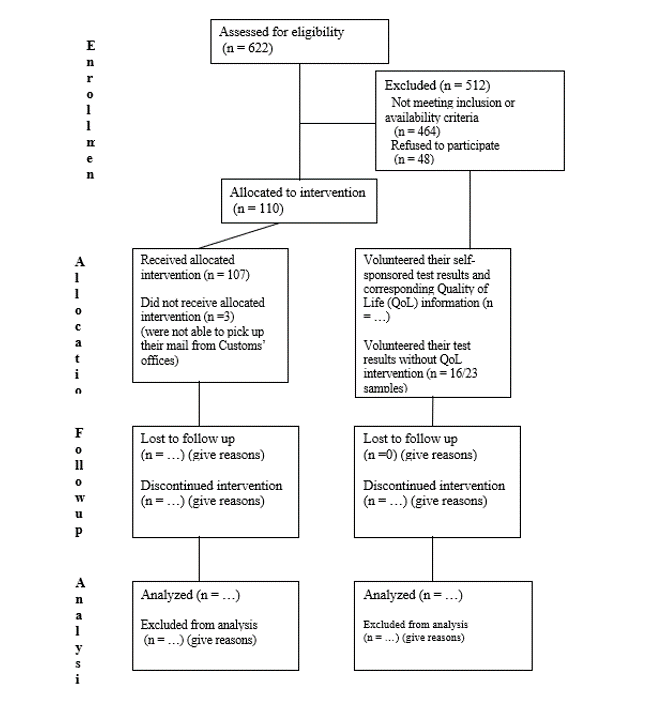
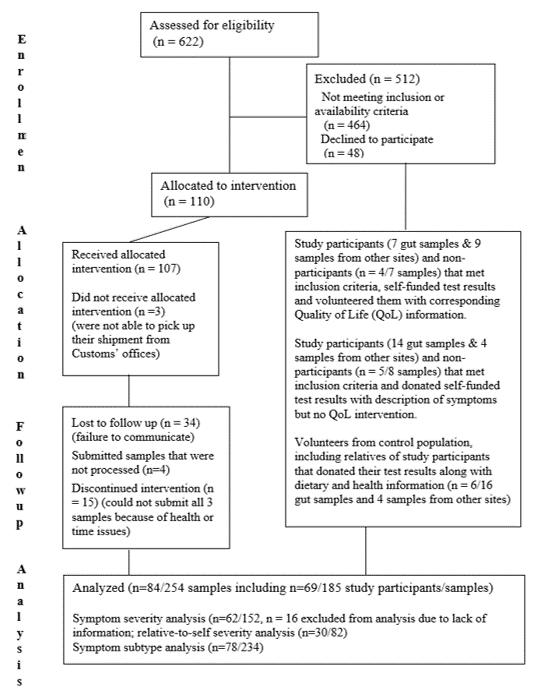
baseline

diff --git a/blog/baseline.html b/blog/baseline.html
@@ -1,0 +1,271 @@
+<!DOCTYPE html>
+
+<html>
+  <head>
+    <title>Aurametrix &hearts; Blog</title>
+    <link rel="stylesheet" type="text/css" href="../css/reset.css">
+    <link rel="stylesheet" type="text/css" href="../css/grid.css">
+    <link rel="stylesheet" type="text/css" href="../css/style_t.css">
+ 	
+    <meta name="viewport" content="width=device-width, initial-scale=1.0">
+    <meta name="description" content="Blog post">
+
+     <meta property="og:description" content="Aurametrix is developing a portable, easy-to-use platform to alleviate metabolic disorders by measuring the body’s early responses to specific foods, activities and therapies" />
+    <meta name="author" content="">
+<meta name="google-site-verification" content="viSFUMm8kGibfn0m9jqaKylLbekJwem1sABKllXTD00">
+
+    <link rel="shortcut icon" href="../favicon.ico" type="image/x-icon">
+
+
+	 </head>
+  <body>
+  
+ 
+    <div id="wrapper" class="grid clearfix">
+      <div id="main" class="grid-1">
+      <!--  <div id="logo"><h1>Blog</h1></div> -->
+     <h1>NCT03582826 Archives</h1>
+	 <div dir="ltr" style="text-align: left;" trbidi="on">
+	 	 <li><a href="sutterella.html">Sutterella</a>: 12/2/2019	
+	 <li><a href="baseline.html">Baseline</a>: 11/30/2019	
+	 <li><a href="https://aurametrix.com/blog/akp">Alloprevotella</a>: 9/4/2019	
+	 <li><a href="https://aurametrix.com/blog/balance">Epulopiscium</a>: 8/19/2019	
+	 <li><a href="https://aurametrix.com/blog/friends">Friends & Stars</a>: 8/14/2019	
+	 <li><a href="https://aurametrix.com/blog/microbiome-tma">PATM and TMAU</a>: 8/5/2019	
+	 <li><a href="https://aurametrix.com/blog/microbiome-food">Feeding microbiomes</a>: 7/21/2019	 
+	 <li><a href="https://aurametrix.com/blog/microbiome-blood-type">Blood type</a>: 6/24/2019
+	 <li><a href="https://aurametrix.com/blog/microbiome-first41">First 41 results</a>: 11/28/2018
+	 <li><a href="https://www.prweb.com/releases/ubiome_awards_grant_to_mebo_research_a_public_charity_to_study_the_dynamic_of_gut_microbiota_in_idiopathic_malodor_production/prweb15949159.htm">Press Release</a>: 11/28
+	 <li><a href="https://aurametrix.com/Studies/mebo-and-patm-microbiome">What we hope to learn</a>: 6/27
+	 <li><a href="https://aurametrix.com/Studies/mebo-microbiome">MEBO Microbiome study</a>: 6/15
+	 <li><a href="https://aurametrix.weebly.com/blog/microbes-of-social-odor">Microbes of anti-social odor</a>: 3/14
+	 <li><a href="https://www.linkedin.com/pulse/crowdsourcing-precision-medicine-irene-gabashvili/">Crowdsourcing precision medicine</a>
+  
+     <br>
+	 <h1><a href="../blog.html">Other Archives</a></h1>
+
+  </div> </div>
+	  
+      <div class="grid grid-3">
+  
+  <!--
+            <div id="statistics" class="grid-1 alpha header">
+          <h1><a href="https://aurametrix.com/Studies/mebo-microbiome">Microbiome Study</a></h1>
+          <p>
+                 </p>
+  
+        </div> 
+		-->
+		
+		  
+		          <div id="recently-updated" class="grid-2 alpha header">
+   <h1>Concluding the MEBO-uBIOME study</h1>
+   <a href="https://clinicaltrials.gov/ct2/show/NCT03582826"><h1>NCT03582826</h1></a> 
+   <h6>&nbsp;&nbsp;&nbsp Saturday, November 30, 2019</h6>
+        </div>
+
+<div dir="ltr" style="text-align: left;" trbidi="on">
+<span style="background-color: white; color: #2a2a2a; font-family: &quot;open sans&quot; , sans-serif; font-size: 16px; text-align: justify;"><span style="color: #2a2a2a;">We are very close to&nbsp;concluding our clinical trial&nbsp;<a data-cke-saved-href="https://clinicaltrials.gov/ct2/show/NCT03582826" href="https://clinicaltrials.gov/ct2/show/NCT03582826" style="color: #2a92e5; text-decoration-line: none;">NCT03582826 </a>according to the pre-specified protocol.&nbsp;</span></span><br />
+<br />
+<div style="text-align: justify;">
+<span style="color: #2a2a2a; font-family: &quot;open sans&quot; , sans-serif;"></span><br />
+<table cellpadding="0" cellspacing="0" class="tr-caption-container" style="float: right; margin-left: 1em; text-align: right;"><tbody>
+<tr><td style="text-align: center;"><a href="https://aurametrix.com/images/Studies/NCT03582826-consort.png" imageanchor="1" style="clear: right; margin-bottom: 1em; margin-left: auto; margin-right: auto;"><img border="0" data-original-height="710" data-original-width="646" height="400" src="https://aurametrix.com/images/Studies/NCT03582826-consort.png" width="363" /></a></td></tr>
+<tr><td class="tr-caption" style="text-align: center;">Consort Diagram</td></tr>
+</tbody></table>
+<br />
+<span style="color: #2a2a2a; font-family: &quot;open sans&quot; , sans-serif;"></span></div>
+<br />
+<span style="color: #2a2a2a; font-family: &quot;open sans&quot; , sans-serif; font-size: 16px; text-align: justify;">Recruitment for our microbiome study commenced in June 2018 and completed in December 2018. The last batch of&nbsp;</span><span style="background-color: white; color: #2a2a2a; font-family: &quot;open sans&quot; , sans-serif; font-size: 16px; text-align: justify;">raw FASTQ sequences and raw taxonomy-level abundance summaries&nbsp;</span><span style="color: #2a2a2a; font-family: &quot;open sans&quot; , sans-serif; font-size: 16px; text-align: justify;">was received in October 2019. We had to spend more time on collecting and processing annotation data (medical histories, dietary intakes, medications, etc), ensuring quality, completeness, consistency and validity, and defining best approaches of dealing with 
+"missing values".</span><br />
+<br style="background-color: white; color: #2a2a2a; font-family: &quot;Open Sans&quot;, sans-serif; font-size: 16px; text-align: justify;" />
+<span style="background-color: white; color: #2a2a2a; font-family: &quot;open sans&quot; , sans-serif; font-size: 16px; text-align: justify;"><span style="color: #2a2a2a;">We have now completed final data collection for the primary and secondary outcome measures, de-identified data and combined it with other donated results, as seen in the consort flow diagram.&nbsp; A&nbsp;table of baseline demographic and clinical characteristics for each study group is shown below.&nbsp;</span></span><br />
+<br style="background-color: white; color: #2a2a2a; font-family: &quot;Open Sans&quot;, sans-serif; font-size: 16px; text-align: justify;" />
+Table 1. Baseline demographic and clinical characteristics
+
+<br />
+<table border="0" cellpadding="0" cellspacing="0" style="border-collapse: collapse; width: 367px;">
+ <colgroup><col style="mso-width-alt: 9076; mso-width-source: userset; width: 195pt;" width="260"></col>
+ <col style="mso-width-alt: 3746; mso-width-source: userset; width: 81pt;" width="107"></col>
+ </colgroup><tbody>
+<tr height="19" style="height: 14.5pt;">
+  <td class="xl65" colspan="2" height="19" style="height: 14.5pt; mso-ignore: colspan; width: 276pt;" width="367"></td>
+ </tr>
+<tr height="19" style="height: 14.5pt;">
+  <td height="19" style="background: rgb(91, 155, 213); border-bottom: 1.5pt solid white; border-left: none; border-right: 0.5pt solid white; border-top: none; color: white; font-family: Calibri, sans-serif; font-size: 11pt; font-weight: 700; height: 14.5pt;">Characteristic</td>
+  <td style="background: rgb(91, 155, 213); border-bottom: 1.5pt solid white; border-left: 0.5pt solid white; border-right: none; border-top: none; color: white; font-family: Calibri, sans-serif; font-size: 11pt; font-weight: 700;">Value / N=84</td>
+ </tr>
+<tr height="19" style="height: 14.5pt;">
+  <td height="19" style="background: rgb(189, 215, 238); border-bottom: 0.5pt solid white; border-left: none; border-right: 0.5pt solid white; border-top: 0.5pt solid white; font-family: Calibri, sans-serif; font-size: 11pt; height: 14.5pt;">Age (years; mean (SD))</td>
+  <td style="background: rgb(189, 215, 238); border-bottom: 0.5pt solid white; border-left: 0.5pt solid white; border-right: none; border-top: 0.5pt solid white; font-family: Calibri, sans-serif; font-size: 11pt;">40
+  (12)</td>
+ </tr>
+<tr height="19" style="height: 14.5pt;">
+  <td height="19" style="background: rgb(221, 235, 247); border-bottom: 0.5pt solid white; border-left: none; border-right: 0.5pt solid white; border-top: 0.5pt solid white; font-family: Calibri, sans-serif; font-size: 11pt; height: 14.5pt;">Sex (female; n (%))</td>
+  <td style="background: rgb(221, 235, 247); border-bottom: 0.5pt solid white; border-left: 0.5pt solid white; border-right: none; border-top: 0.5pt solid white; font-family: Calibri, sans-serif; font-size: 11pt;">50
+  (60%)</td>
+ </tr>
+<tr height="19" style="height: 14.5pt;">
+  <td height="19" style="background: rgb(189, 215, 238); border-bottom: 0.5pt solid white; border-left: none; border-right: 0.5pt solid white; border-top: 0.5pt solid white; font-family: Calibri, sans-serif; font-size: 11pt; height: 14.5pt;">Age (female, years; mean (SD))</td>
+  <td style="background: rgb(189, 215, 238); border-bottom: 0.5pt solid white; border-left: 0.5pt solid white; border-right: none; border-top: 0.5pt solid white; font-family: Calibri, sans-serif; font-size: 11pt;">42
+  (11)</td>
+ </tr>
+<tr height="19" style="height: 14.5pt;">
+  <td height="19" style="background: rgb(221, 235, 247); border-bottom: 0.5pt solid white; border-left: none; border-right: 0.5pt solid white; border-top: 0.5pt solid white; font-family: Calibri, sans-serif; font-size: 11pt; height: 14.5pt;">Age (male, years; mean (SD))</td>
+  <td style="background: rgb(221, 235, 247); border-bottom: 0.5pt solid white; border-left: 0.5pt solid white; border-right: none; border-top: 0.5pt solid white; font-family: Calibri, sans-serif; font-size: 11pt;">37
+  (12)</td>
+ </tr>
+<tr height="19" style="height: 14.5pt;">
+  <td height="19" style="background: rgb(189, 215, 238); border-bottom: 0.5pt solid white; border-left: none; border-right: 0.5pt solid white; border-top: 0.5pt solid white; font-family: Calibri, sans-serif; font-size: 11pt; height: 14.5pt;">TMAU positive (n (%))</td>
+  <td style="background: rgb(189, 215, 238); border-bottom: 0.5pt solid white; border-left: 0.5pt solid white; border-right: none; border-top: 0.5pt solid white; font-family: Calibri, sans-serif; font-size: 11pt;">20
+  (24%)</td>
+ </tr>
+<tr height="19" style="height: 14.5pt;">
+  <td height="19" style="background: rgb(221, 235, 247); border-bottom: 0.5pt solid white; border-left: none; border-right: 0.5pt solid white; border-top: 0.5pt solid white; font-family: Calibri, sans-serif; font-size: 11pt; height: 14.5pt;">&nbsp;&nbsp;&nbsp;&nbsp;&nbsp;&nbsp;&nbsp;&nbsp;&nbsp;&nbsp;&nbsp;
+  TMAU1</td>
+  <td style="background: rgb(221, 235, 247); border-bottom: 0.5pt solid white; border-left: 0.5pt solid white; border-right: none; border-top: 0.5pt solid white; font-family: Calibri, sans-serif; font-size: 11pt;">8
+  (10%)</td>
+ </tr>
+<tr height="19" style="height: 14.5pt;">
+  <td height="19" style="background: rgb(189, 215, 238); border-bottom: 0.5pt solid white; border-left: none; border-right: 0.5pt solid white; border-top: 0.5pt solid white; font-family: Calibri, sans-serif; font-size: 11pt; height: 14.5pt;">&nbsp;&nbsp;&nbsp;&nbsp;&nbsp;&nbsp;&nbsp;&nbsp;&nbsp;&nbsp;&nbsp;
+  TMAU2</td>
+  <td style="background: rgb(189, 215, 238); border-bottom: 0.5pt solid white; border-left: 0.5pt solid white; border-right: none; border-top: 0.5pt solid white; font-family: Calibri, sans-serif; font-size: 11pt;">9
+  (11%)</td>
+ </tr>
+<tr height="19" style="height: 14.5pt;">
+  <td height="19" style="background: rgb(221, 235, 247); border-bottom: 0.5pt solid white; border-left: none; border-right: 0.5pt solid white; border-top: 0.5pt solid white; font-family: Calibri, sans-serif; font-size: 11pt; height: 14.5pt;">&nbsp;&nbsp;&nbsp;&nbsp;&nbsp;&nbsp;&nbsp;&nbsp;&nbsp;&nbsp;
+  Intermittent TMAU</td>
+  <td style="background: rgb(221, 235, 247); border-bottom: 0.5pt solid white; border-left: 0.5pt solid white; border-right: none; border-top: 0.5pt solid white; font-family: Calibri, sans-serif; font-size: 11pt;">2
+  (2%)</td>
+ </tr>
+<tr height="19" style="height: 14.5pt;">
+  <td height="19" style="background: rgb(189, 215, 238); border-bottom: 0.5pt solid white; border-left: none; border-right: 0.5pt solid white; border-top: 0.5pt solid white; font-family: Calibri, sans-serif; font-size: 11pt; height: 14.5pt;">&nbsp;&nbsp;&nbsp;&nbsp;&nbsp;&nbsp;&nbsp;&nbsp;&nbsp;&nbsp;
+  genetic but not metabolic positive</td>
+  <td style="background: rgb(189, 215, 238); border-bottom: 0.5pt solid white; border-left: 0.5pt solid white; border-right: none; border-top: 0.5pt solid white; font-family: Calibri, sans-serif; font-size: 11pt;">1
+  (1%)</td>
+ </tr>
+<tr height="19" style="height: 14.5pt;">
+  <td height="19" style="background: rgb(221, 235, 247); border-bottom: 0.5pt solid white; border-left: none; border-right: 0.5pt solid white; border-top: 0.5pt solid white; font-family: Calibri, sans-serif; font-size: 11pt; height: 14.5pt;">TMAU negative (n (%))</td>
+  <td style="background: rgb(221, 235, 247); border-bottom: 0.5pt solid white; border-left: 0.5pt solid white; border-right: none; border-top: 0.5pt solid white; font-family: Calibri, sans-serif; font-size: 11pt;">16
+  (19%)</td>
+ </tr>
+<tr height="19" style="height: 14.5pt;">
+  <td height="19" style="background: rgb(189, 215, 238); border-bottom: 0.5pt solid white; border-left: none; border-right: 0.5pt solid white; border-top: 0.5pt solid white; font-family: Calibri, sans-serif; font-size: 11pt; height: 14.5pt;">PATM (n (%))</td>
+  <td style="background: rgb(189, 215, 238); border-bottom: 0.5pt solid white; border-left: 0.5pt solid white; border-right: none; border-top: 0.5pt solid white; font-family: Calibri, sans-serif; font-size: 11pt;">37
+  (44%)</td>
+ </tr>
+<tr height="19" style="height: 14.5pt;">
+  <td height="19" style="background: rgb(221, 235, 247); border-bottom: 0.5pt solid white; border-left: none; border-right: 0.5pt solid white; border-top: 0.5pt solid white; font-family: Calibri, sans-serif; font-size: 11pt; height: 14.5pt;">PATM without odors (n (%))</td>
+  <td style="background: rgb(221, 235, 247); border-bottom: 0.5pt solid white; border-left: 0.5pt solid white; border-right: none; border-top: 0.5pt solid white; font-family: Calibri, sans-serif; font-size: 11pt;">2
+  (2%)</td>
+ </tr>
+<tr height="19" style="height: 14.5pt;">
+  <td height="19" style="background: rgb(189, 215, 238); border-bottom: 0.5pt solid white; border-left: none; border-right: 0.5pt solid white; border-top: 0.5pt solid white; font-family: Calibri, sans-serif; font-size: 11pt; height: 14.5pt;">Feet odor w/other odors (n (%))</td>
+  <td style="background: rgb(189, 215, 238); border-bottom: 0.5pt solid white; border-left: 0.5pt solid white; border-right: none; border-top: 0.5pt solid white; font-family: Calibri, sans-serif; font-size: 11pt;">14
+  (17%)</td>
+ </tr>
+<tr height="19" style="height: 14.5pt;">
+  <td height="19" style="background: rgb(221, 235, 247); border-bottom: 0.5pt solid white; border-left: none; border-right: 0.5pt solid white; border-top: 0.5pt solid white; font-family: Calibri, sans-serif; font-size: 11pt; height: 14.5pt;">Genital odor w/other odors (n (%))</td>
+  <td style="background: rgb(221, 235, 247); border-bottom: 0.5pt solid white; border-left: 0.5pt solid white; border-right: none; border-top: 0.5pt solid white; font-family: Calibri, sans-serif; font-size: 11pt;">9
+  (11%)</td>
+ </tr>
+<tr height="19" style="height: 14.5pt;">
+  <td height="19" style="background: rgb(189, 215, 238); border-bottom: 0.5pt solid white; border-left: none; border-right: 0.5pt solid white; border-top: 0.5pt solid white; font-family: Calibri, sans-serif; font-size: 11pt; height: 14.5pt;">Bad breath w/other odors (n (%))</td>
+  <td style="background: rgb(189, 215, 238); border-bottom: 0.5pt solid white; border-left: 0.5pt solid white; border-right: none; border-top: 0.5pt solid white; font-family: Calibri, sans-serif; font-size: 11pt;">47
+  (56%)</td>
+ </tr>
+<tr height="19" style="height: 14.5pt;">
+  <td height="19" style="background: rgb(221, 235, 247); border-bottom: 0.5pt solid white; border-left: none; border-right: 0.5pt solid white; border-top: 0.5pt solid white; font-family: Calibri, sans-serif; font-size: 11pt; height: 14.5pt;">Bad breath without body odor (n (%))</td>
+  <td style="background: rgb(221, 235, 247); border-bottom: 0.5pt solid white; border-left: 0.5pt solid white; border-right: none; border-top: 0.5pt solid white; font-family: Calibri, sans-serif; font-size: 11pt;">2
+  (2%)</td>
+ </tr>
+<tr height="19" style="height: 14.5pt;">
+  <td height="19" style="background: rgb(189, 215, 238); border-bottom: 0.5pt solid white; border-left: none; border-right: 0.5pt solid white; border-top: 0.5pt solid white; font-family: Calibri, sans-serif; font-size: 11pt; height: 14.5pt;">Underarm odor w/other odors (n (%))</td>
+  <td style="background: rgb(189, 215, 238); border-bottom: 0.5pt solid white; border-left: 0.5pt solid white; border-right: none; border-top: 0.5pt solid white; font-family: Calibri, sans-serif; font-size: 11pt;">13
+  (16%)</td>
+ </tr>
+<tr height="19" style="height: 14.5pt;">
+  <td height="19" style="background: rgb(221, 235, 247); border-bottom: 0.5pt solid white; border-left: none; border-right: 0.5pt solid white; border-top: 0.5pt solid white; font-family: Calibri, sans-serif; font-size: 11pt; height: 14.5pt;">Scalp odor w/other odors (n (%))</td>
+  <td style="background: rgb(221, 235, 247); border-bottom: 0.5pt solid white; border-left: 0.5pt solid white; border-right: none; border-top: 0.5pt solid white; font-family: Calibri, sans-serif; font-size: 11pt;">6
+  (7%)</td>
+ </tr>
+<tr height="19" style="height: 14.5pt;">
+  <td height="19" style="background: rgb(189, 215, 238); border-bottom: none; border-left: none; border-right: 0.5pt solid white; border-top: 0.5pt solid white; font-family: Calibri, sans-serif; font-size: 11pt; height: 14.5pt;">Baseline MEBO score (min-max, med; IQR)</td>
+  <td style="background: rgb(189, 215, 238); border-bottom: none; border-left: 0.5pt solid white; border-right: none; border-top: 0.5pt solid white; font-family: Calibri, sans-serif; font-size: 11pt;">3-25,11; 7</td>
+ </tr>
+</tbody></table>
+<br />
+<br />
+<span style="background-color: white; color: #2a2a2a; font-family: &quot;open sans&quot; , sans-serif; font-size: 16px; text-align: justify;">We see patterns in data potentially associated with sub-types and severity of symptoms, but&nbsp;to evaluate the validity of these results, factors that might distort the true association and/or influence its interpretation need to be carefully considered. We need to evaluate&nbsp;the role of bias and consider&nbsp;the study's statistical precision. We performed these analyzes&nbsp;for raw taxonomies and will report it in the next posts. Next steps will be to analyze actual DNA&nbsp;sequences&nbsp;<span style="color: #222222;">to predict metabolic function.&nbsp;</span></span></div>
+
+<br />
+XXXXXXXXXXXXXXXXXXXXXXXXXXXXXXXXXXXXXX<br />
+
+		  
+
+
+
+
+
+           <p>&nbsp;</p>
+
+		   		          <!-- <div id="post" class="grid-4 omega header">  -->
+
+<br />
+<br />
+<br />
+<br />
+
+
+<div id="disqus_thread"></div>
+<script>
+    /**
+     *  RECOMMENDED CONFIGURATION VARIABLES: EDIT AND UNCOMMENT 
+     *  THE SECTION BELOW TO INSERT DYNAMIC VALUES FROM YOUR 
+     *  PLATFORM OR CMS.
+     *  
+     *  LEARN WHY DEFINING THESE VARIABLES IS IMPORTANT: 
+     *  https://disqus.com/admin/universalcode/#configuration-variables
+     */
+    /*
+    var disqus_config = function () {
+        // Replace PAGE_URL with your page's canonical URL variable
+        this.page.url = https://aurametrix.com;  
+        
+        // Replace PAGE_IDENTIFIER with your page's unique identifier variable
+        this.page.identifier = blog/baseline; 
+    };
+    */
+    
+    (function() {  // REQUIRED CONFIGURATION VARIABLE: EDIT THE SHORTNAME BELOW
+        var d = document, s = d.createElement('script');
+        
+        // IMPORTANT: Replace EXAMPLE with your forum shortname!
+        s.src = 'https://aurametrix.disqus.com/embed.js';
+        
+        s.setAttribute('data-timestamp', +new Date());
+        (d.head || d.body).appendChild(s);
+    })();
+</script>
+<noscript>
+    Please enable JavaScript to view the 
+    <a href="https://disqus.com/?ref_noscript" rel="nofollow">
+        comments powered by Disqus.
+    </a>
+</noscript>
+
+
+
+
+
+		  </p>
+
+        </div>
+
+
+      </div>
+
+    </div>
+    
+  </body>
+</html>

diff --git a/blog/sutterela.html b/blog/sutterela.html
@@ -26,7 +26,8 @@
       <!--  <div id="logo"><h1>Blog</h1></div> -->
      <h1>NCT03582826 Archives</h1>
 	 <div dir="ltr" style="text-align: left;" trbidi="on">
-	 	 <li><a href="https://aurametrix.com/blog/sutterella">Sutterella</a>: 11/29/2019	
+	 	 <li><a href="sutterella.html">Sutterella</a>: 12/3/2019	
+	 <li><a href="baseline.html">Baseline</a>: 11/30/2019	
 	 <li><a href="https://aurametrix.com/blog/akp">Alloprevotella</a>: 9/4/2019	
 	 <li><a href="https://aurametrix.com/blog/balance">Epulopiscium</a>: 8/19/2019	
 	 <li><a href="https://aurametrix.com/blog/friends">Friends & Stars</a>: 8/14/2019	
@@ -60,31 +61,34 @@
 		          <div id="recently-updated" class="grid-2 alpha header">
    <h1>Sutterella</h1>    
    <a href="https://clinicaltrials.gov/ct2/show/NCT03582826"><h1>NCT03582826</h1></a> 
-   <h6>&nbsp;&nbsp;&nbsp Friday, November 29, 2019</h6>
+   <h6>&nbsp;&nbsp;&nbsp Tuesday, December 3, 2019</h6>
         </div>
 
 <div dir="ltr" style="text-align: left;" trbidi="on">
-230 kits submitted, 191 of which were valid gut samples with results.<br />
-<span style="border: 0px; color: #666666; font: inherit; margin: 0px; padding: 0px; vertical-align: baseline;">Out of 110 participants enrolled, 70 submitted at least one gut sample: .&nbsp;&nbsp;</span><span style="border: 0px; color: #666666; font: inherit; margin: 0px; padding: 0px; vertical-align: baseline;">5 gut samples and 9 samples from other body sites were volunteered by those not participating in the study,&nbsp;</span><span style="color: #666666;">along with their QoL information. In addition, over 20 self-paid test results were donated before and after enrollment in the study.</span><br />
-<span style="color: #666666;"><br /></span>
-<div class="separator" style="clear: both; text-align: center;">
-<a href="https://aurametrix.com/images/Studies/NCT03582826-consort.png" imageanchor="1" style="clear: right; float: right; margin-bottom: 1em; margin-left: 1em;"><img border="0" data-original-height="710" data-original-width="646" height="320" src="https://aurametrix.com/images/Studies/NCT03582826-consort.png" width="291" /></a></div>
-<span style="color: #666666;"><br /></span>
+<div dir="ltr" style="text-align: left;" trbidi="on">
+<em style="background-color: white; box-sizing: border-box; color: #5f5959; font-family: &quot;Open Sans&quot;, sans-serif; font-size: 14px;">Sutterella</em><span style="background-color: white; color: #5f5959; font-family: &quot;open sans&quot; , sans-serif; font-size: 14px;">&nbsp;is a genus of bacteria that is normally found in the gastrointestinal tract of dogs. They are mildly pro-inflammatory, though the results of several studies have indicated that they are unlikely to play a significant role in the development of GI conditions like Inflammatory Bowel Disease (IBD). Instead, members of this genus may help keep immune system responses at an appropriate level. At the same time, higher levels of&nbsp;</span><em style="background-color: white; box-sizing: border-box; color: #5f5959; font-family: &quot;Open Sans&quot;, sans-serif; font-size: 14px;">Sutterella</em><span style="background-color: white; color: #5f5959; font-family: &quot;open sans&quot; , sans-serif; font-size: 14px;">&nbsp;are associated with a host of health issues including diarrhea and food sensitivities, so moderation is key with this genus.</span><br />
+<span style="background-color: white; color: #5f5959; font-family: &quot;open sans&quot; , sans-serif; font-size: 14px;"><br /></span>
+<span style="background-color: white; color: #5f5959; font-family: open sans, sans-serif; font-size: 14px;">Sutterella stercoricanis species</span><br />
+<span style="background-color: white; color: #5f5959; font-family: open sans, sans-serif; font-size: 14px;"><br /></span>
+<span style="background-color: white; color: #5f5959; font-family: open sans, sans-serif; font-size: 14px;">Sutterellaceae family</span><br />
+<span style="background-color: white; color: #5f5959; font-family: open sans, sans-serif; font-size: 14px;"><br /></span>
+<span style="background-color: white; color: #5f5959; font-family: open sans, sans-serif; font-size: 14px;"><i style="box-sizing: border-box; color: #3e3d40; font-family: Georgia, &quot;Times New Roman&quot;, Times, serif; font-size: 18px; outline: 0px !important;">Desulfovibrionaceae</i><span style="color: #3e3d40; font-family: Georgia, &quot;Times New Roman&quot;, Times, serif; font-size: 18px;">&nbsp;and&nbsp;</span><i style="box-sizing: border-box; color: #3e3d40; font-family: Georgia, &quot;Times New Roman&quot;, Times, serif; font-size: 18px; outline: 0px !important;">Sutterellaceae</i><span style="color: #3e3d40; font-family: Georgia, &quot;Times New Roman&quot;, Times, serif; font-size: 18px;">&nbsp;were progressively and significantly more abundant in BT, BC and EU children, and almost absent in the BR population (urban Italy, town, capital city vs small village)</span></span><br />
+<span style="background-color: white; color: #5f5959; font-family: open sans, sans-serif; font-size: 14px;"><span style="color: #3e3d40; font-family: Georgia, &quot;Times New Roman&quot;, Times, serif; font-size: 18px;"><br /></span></span>
+<span style="background-color: white; color: #5f5959; font-family: open sans, sans-serif; font-size: 14px;"><span style="color: #3e3d40; font-family: Georgia, &quot;Times New Roman&quot;, Times, serif; font-size: 18px;">In this study, we enrolled 11 healthy children living in the rural village of Boulpon (Boulkiemde province, Burkina Faso, BR), 8 healthy children living in the small town of Nanoro (Boulkiemde province, Burkina Faso, BT), 5 children living in the capital city of Burkina Faso (BC), and 13 healthy children living in the urban area of Florence, Italy (EU). All children aged 2–8 years, had not taken antibiotics or probiotics in the 6 months prior to the sampling dates and had not been hospitalized in the previous 6 months.&nbsp;</span></span><br />
+<span style="background-color: white; color: #5f5959; font-family: &quot;open sans&quot; , sans-serif; font-size: 14px;"><i style="color: black; font-family: &quot;Times New Roman&quot;, serif; font-size: 15.9991px;"><br />Sutterella wadsworthensis</i><span style="color: black; font-family: &quot;Times New Roman&quot;, serif; font-size: 15.9991px;">&nbsp;is often resistant to metronidazole and sometimes to penicillins (including piperacillin</span></span><br />
+<span style="background-color: white; color: #5f5959; font-family: &quot;open sans&quot; , sans-serif; font-size: 14px;"><span style="color: black; font-family: &quot;Times New Roman&quot;, serif; font-size: 15.9991px;"><br /></span></span>
+<span style="background-color: white; color: #5f5959; font-family: &quot;open sans&quot; , sans-serif; font-size: 14px;"><span style="color: black; font-family: &quot;Times New Roman&quot;, serif; font-size: 15.9991px;">Egiptian children:&nbsp;</span></span><span style="font-family: &quot;Times New Roman&quot;, serif; font-size: 15.9991px;">Sutterella assosiated with autism&nbsp;</span><br />
 <br />
-In addition to double QoL entries, we had double kit results - same kit number, two results<br />
-<br />
-<br />
-<br />
-<br />
-<br />
-<br />
-<br />
-<br />
-<br />
-<em style="background-color: white; box-sizing: border-box; color: #5f5959; font-family: &quot;Open Sans&quot;, sans-serif; font-size: 14px;">Sutterella</em><span style="background-color: white; color: #5f5959; font-family: &quot;Open Sans&quot;, sans-serif; font-size: 14px;">&nbsp;is a genus of bacteria that is normally found in the gastrointestinal tract of dogs. They are mildly pro-inflammatory, though the results of several studies have indicated that they are unlikely to play a significant role in the development of GI conditions like Inflammatory Bowel Disease (IBD). Instead, members of this genus may help keep immune system responses at an appropriate level. At the same time, higher levels of&nbsp;</span><em style="background-color: white; box-sizing: border-box; color: #5f5959; font-family: &quot;Open Sans&quot;, sans-serif; font-size: 14px;">Sutterella</em><span style="background-color: white; color: #5f5959; font-family: &quot;Open Sans&quot;, sans-serif; font-size: 14px;">&nbsp;are associated with a host of health issues including diarrhea and food sensitivities, so moderation is key with this genus.</span><br />
-<br />
-<br />
-<br />
+<span style="font-family: Times New Roman, serif;"><span style="font-size: 15.9991px;">was detected in 24 cases out of 30 ASD patients (80%), and in 11(36.7%) out of the control cases. There was no significant correlation between the presence of</span></span><br />
+<span style="font-family: Times New Roman, serif;"><span style="font-size: 15.9991px;">Sutterella&nbsp;</span></span><span style="font-family: &quot;Times New Roman&quot;, serif; font-size: 15.9991px;">and the severity of ASD or GSI.</span><br />
+<span style="font-family: Times New Roman, serif;"><span style="font-size: 15.9991px;"><br /></span></span>
+<span style="font-family: Times New Roman, serif;"><span style="font-size: 15.9991px;"><br /></span></span>
+<span style="font-family: Times New Roman, serif;"><span style="font-size: 15.9991px;">REFERENCES</span></span><br />
+<span style="font-family: Times New Roman, serif;"><span style="font-size: 15.9991px;"><br /></span></span>
+<span style="background-color: white; color: #222222; font-family: Arial, sans-serif; font-size: 13px;">Omar NY, Ahmed SM, Azouz H, Abdelhamid SM, Abdelaziz NM. Detection of Sutterella in the Stool of Egyptian Children with Autism Spectrum Disorders. Microbiology Research Journal International. 2017 Nov 28:1-8.</span><br />
+<span style="background-color: white; color: #222222; font-family: Arial, sans-serif; font-size: 13px;"><br /></span>
+<span style="background-color: white; color: #222222; font-family: Arial, sans-serif; font-size: 13px;">Devaux CA, Raoult D. The microbiological memory, an epigenetic regulator governing the balance between good health and metabolic disorders. Frontiers in microbiology. 2018 Jun 26;9:1379.</span></div>
+
 <br />
 <br />
 XXXXXXXXXXXXXXXXXXXXXXXXXXXXXXXXXXXXXX<br />
@@ -223,6 +227,42 @@ disease. 2017 Jan 1;28(1):1357417.</div>
       </div>
 
     </div>
+   <div id="disqus_thread"></div>
+<script>
+    /**
+     *  RECOMMENDED CONFIGURATION VARIABLES: EDIT AND UNCOMMENT 
+     *  THE SECTION BELOW TO INSERT DYNAMIC VALUES FROM YOUR 
+     *  PLATFORM OR CMS.
+     *  
+     *  LEARN WHY DEFINING THESE VARIABLES IS IMPORTANT: 
+     *  https://disqus.com/admin/universalcode/#configuration-variables
+     */
+    /*
+    var disqus_config = function () {
+        // Replace PAGE_URL with your page's canonical URL variable
+        this.page.url = https://aurametrix.com;  
+        
+        // Replace PAGE_IDENTIFIER with your page's unique identifier variable
+        this.page.identifier = blog/sutterella; 
+    };
+    */
     
+    (function() {  // REQUIRED CONFIGURATION VARIABLE: EDIT THE SHORTNAME BELOW
+        var d = document, s = d.createElement('script');
+        
+        // IMPORTANT: Replace EXAMPLE with your forum shortname!
+        s.src = 'https://aurametrix.disqus.com/embed.js';
+        
+        s.setAttribute('data-timestamp', +new Date());
+        (d.head || d.body).appendChild(s);
+    })();
+</script>
+<noscript>
+    Please enable JavaScript to view the 
+    <a href="https://disqus.com/?ref_noscript" rel="nofollow">
+        comments powered by Disqus.
+    </a>
+</noscript>
+ 
   </body>
 </html>

diff --git a/topics/concussion.html b/topics/concussion.html
@@ -45,7 +45,7 @@
 /*
 var disqus_config = function () {
 this.page.url = PAGE_URL;  // Replace PAGE_URL with your page's canonical URL variable
-this.page.identifier = PAGE_IDENTIFIER; // Replace PAGE_IDENTIFIER with your page's unique identifier variable
+this.page.identifier = topics/concussion; // Replace PAGE_IDENTIFIER with your page's unique identifier variable
 };
 */
 (function() { // DON'T EDIT BELOW THIS LINE
